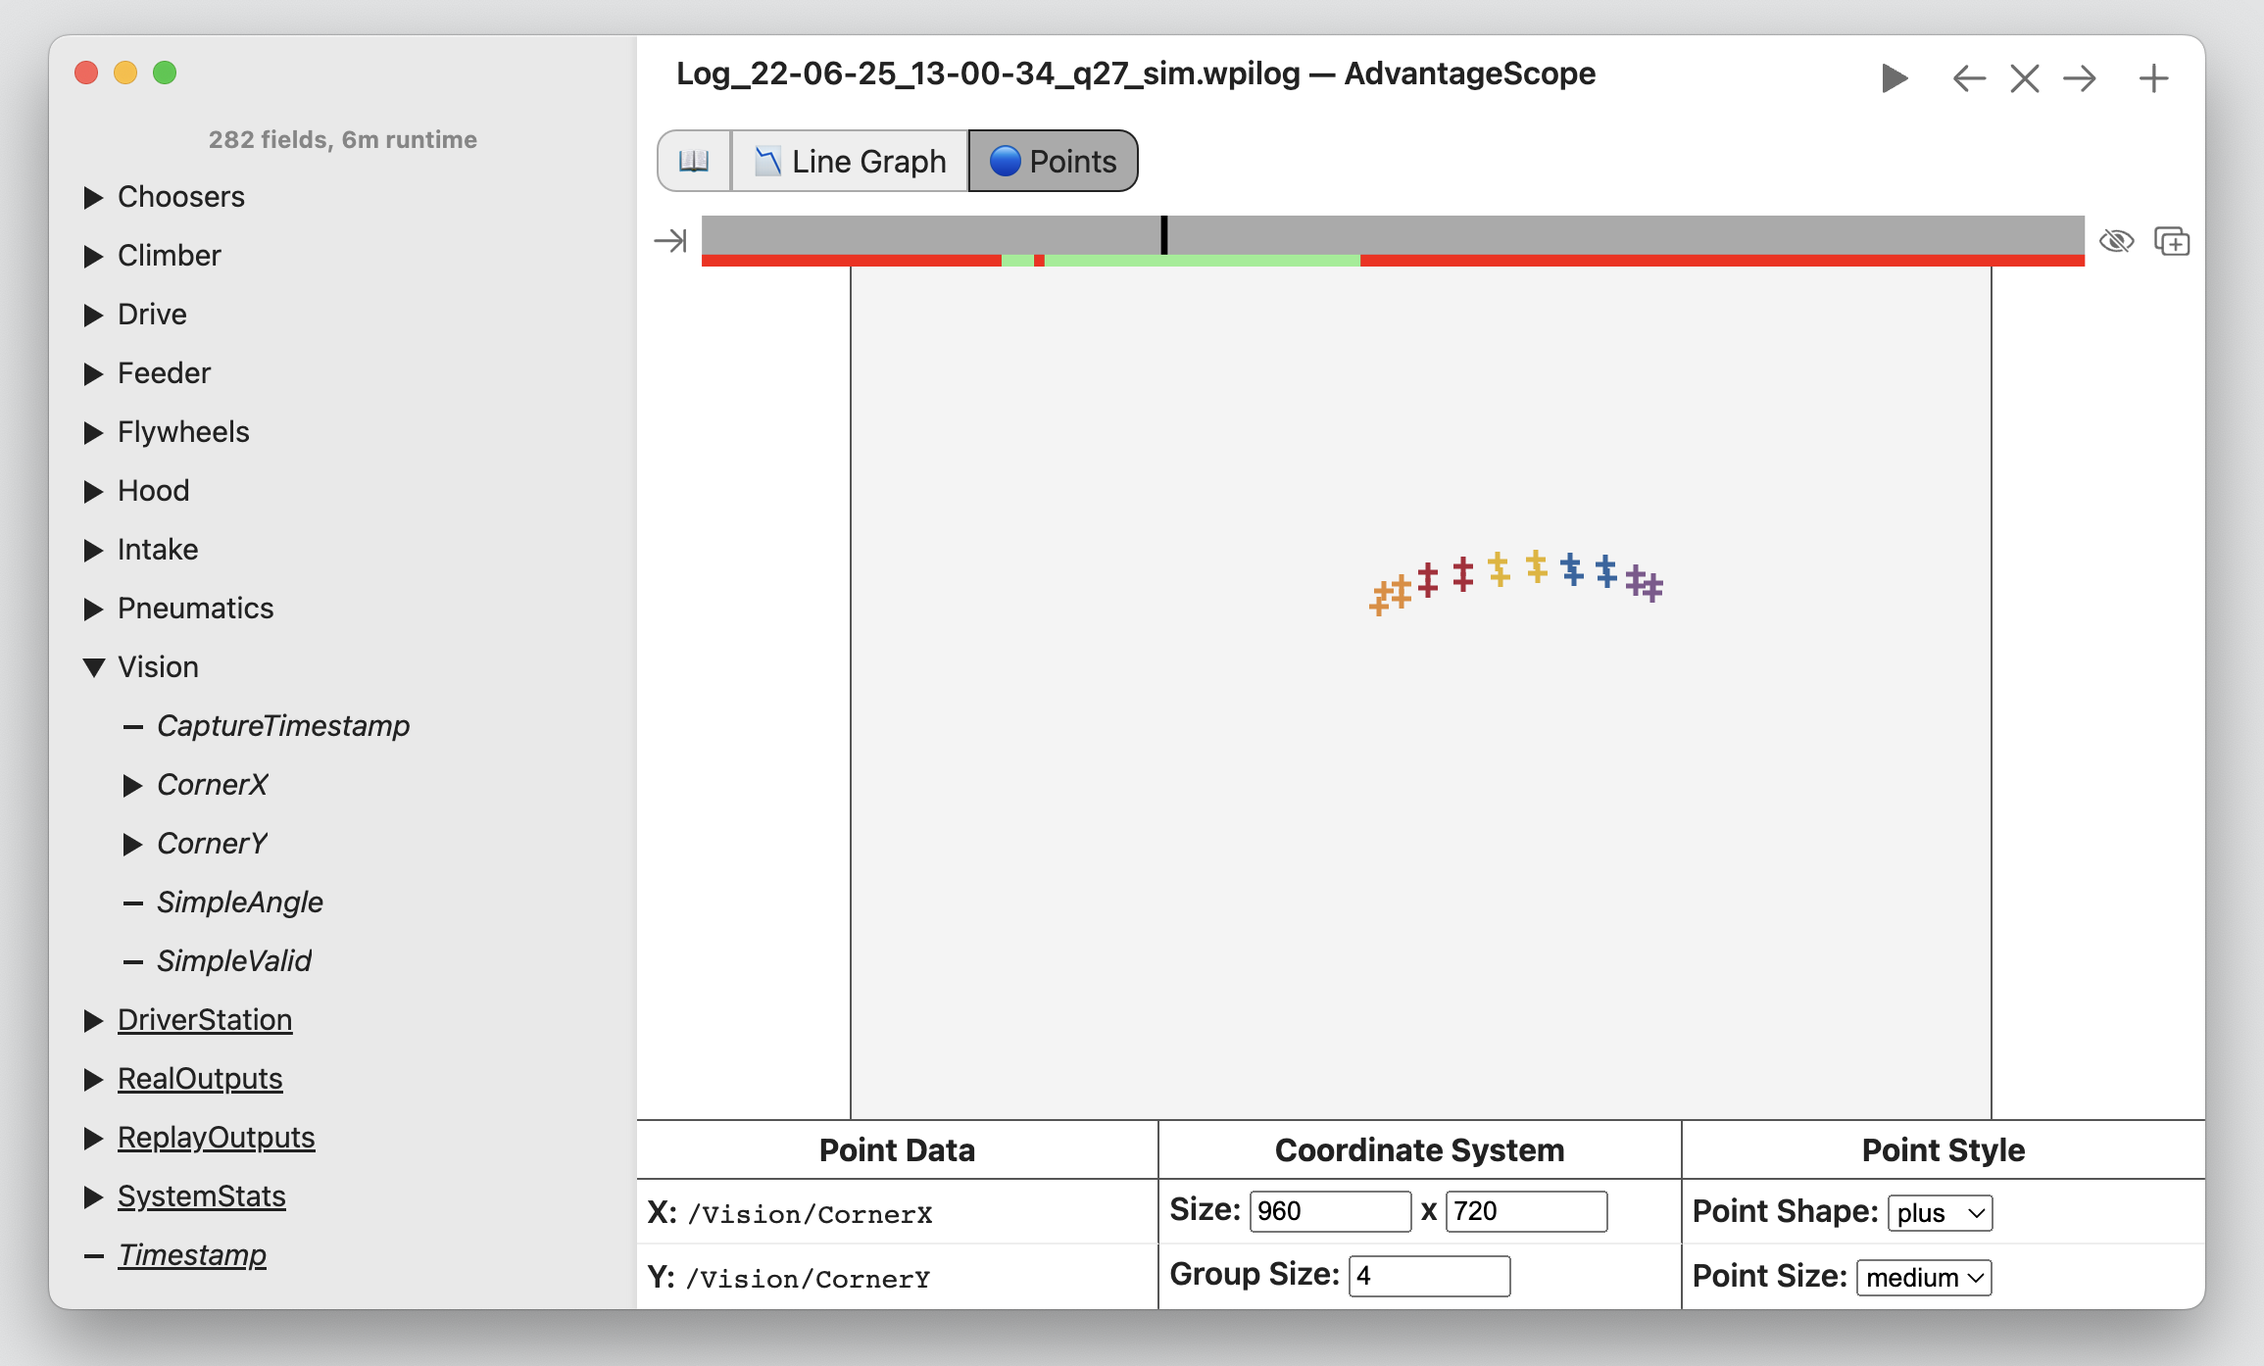
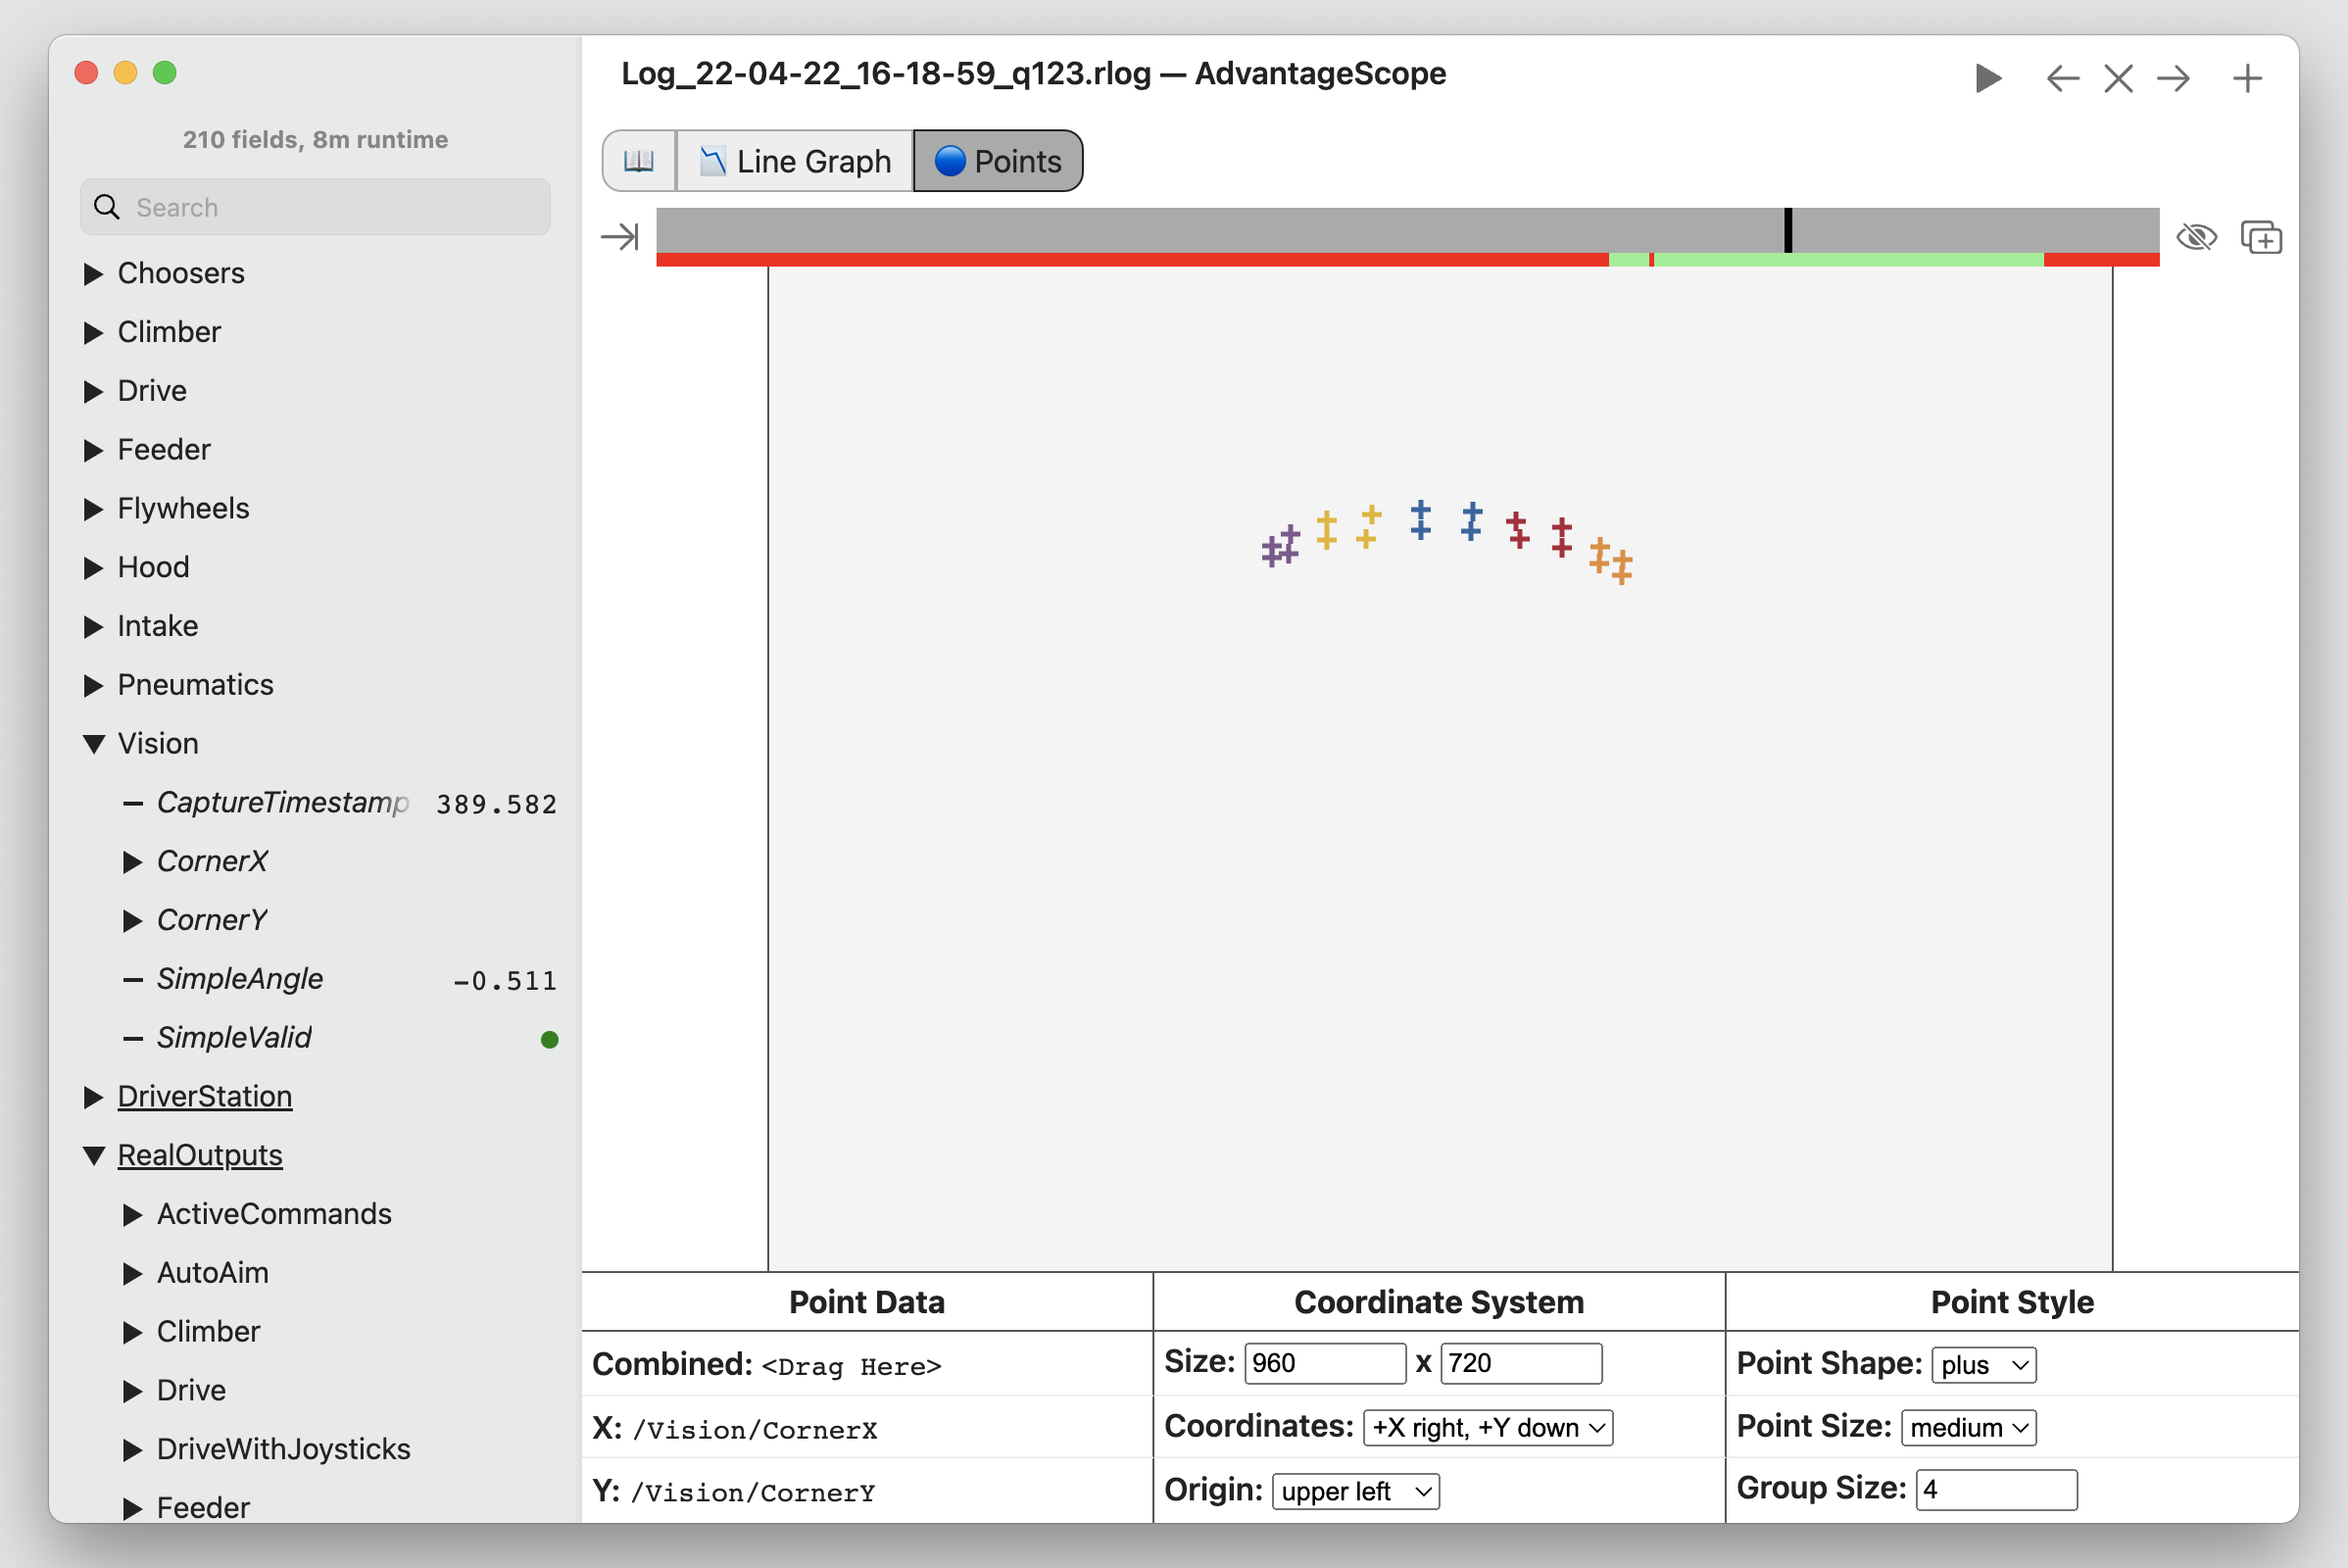
Add coordinate system options to points tab (#119)

diff --git a/src/hub/tabControllers/PointsController.ts b/src/hub/tabControllers/PointsController.ts
@@ -1,4 +1,5 @@
 import LoggableType from "../../shared/log/LoggableType";
+import { getOrDefault } from "../../shared/log/LogUtil";
 import TabType from "../../shared/TabType";
 import PointsVisualizer from "../../shared/visualizers/PointsVisualizer";
 import TimelineVizController from "./TimelineVizController";
@@ -6,9 +7,11 @@ import TimelineVizController from "./TimelineVizController";
 export default class PointsController extends TimelineVizController {
   private WIDTH: HTMLInputElement;
   private HEIGHT: HTMLInputElement;
-  private GROUP: HTMLInputElement;
+  private COORDINATES: HTMLInputElement;
+  private ORIGIN: HTMLInputElement;
   private POINT_SHAPE: HTMLInputElement;
   private POINT_SIZE: HTMLInputElement;
+  private GROUP_SIZE: HTMLInputElement;
 
   constructor(content: HTMLElement) {
     let configBody = content.getElementsByClassName("timeline-viz-config")[0].firstElementChild as HTMLElement;
@@ -16,15 +19,21 @@ export default class PointsController extends TimelineVizController {
       content,
       TabType.Points,
       [
-        // X
+        // Combined
         {
           element: configBody.children[1].firstElementChild as HTMLElement,
+          types: [LoggableType.NumberArray, "Translation2d[]"]
+        },
+
+        // X
+        {
+          element: configBody.children[2].firstElementChild as HTMLElement,
           types: [LoggableType.NumberArray]
         },
 
         // Y
         {
-          element: configBody.children[2].firstElementChild as HTMLElement,
+          element: configBody.children[3].firstElementChild as HTMLElement,
           types: [LoggableType.NumberArray]
         }
       ],
@@ -35,12 +44,14 @@ export default class PointsController extends TimelineVizController {
     // Get option inputs
     this.WIDTH = configBody.children[1].children[1].children[1] as HTMLInputElement;
     this.HEIGHT = configBody.children[1].children[1].children[3] as HTMLInputElement;
-    this.GROUP = configBody.children[2].children[1].children[1] as HTMLInputElement;
+    this.COORDINATES = configBody.children[2].children[1].children[1] as HTMLInputElement;
+    this.ORIGIN = configBody.children[3].children[1].children[1] as HTMLInputElement;
     this.POINT_SHAPE = configBody.children[1].children[2].children[1] as HTMLInputElement;
     this.POINT_SIZE = configBody.children[2].children[2].children[1] as HTMLInputElement;
+    this.GROUP_SIZE = configBody.children[3].children[2].children[1] as HTMLInputElement;
 
-    // Enforce range
-    [this.WIDTH, this.HEIGHT, this.GROUP].forEach((input, index) => {
+    // Enforce number ranges
+    [this.WIDTH, this.HEIGHT, this.GROUP_SIZE].forEach((input, index) => {
       input.addEventListener("change", () => {
         if (Number(input.value) % 1 !== 0) input.value = Math.round(Number(input.value)).toString();
         if (index === 2) {
@@ -56,18 +67,22 @@ export default class PointsController extends TimelineVizController {
     return {
       width: Number(this.WIDTH.value),
       height: Number(this.HEIGHT.value),
-      group: Number(this.GROUP.value),
+      coordinates: this.COORDINATES.value,
+      origin: this.ORIGIN.value,
       pointShape: this.POINT_SHAPE.value,
-      pointSize: this.POINT_SIZE.value
+      pointSize: this.POINT_SIZE.value,
+      groupSize: Number(this.GROUP_SIZE.value)
     };
   }
 
   set options(options: { [id: string]: any }) {
     this.WIDTH.value = options.width;
     this.HEIGHT.value = options.height;
-    this.GROUP.value = options.group;
+    this.COORDINATES.value = options.coordinates;
+    this.ORIGIN.value = options.origin;
     this.POINT_SHAPE.value = options.pointShape;
     this.POINT_SIZE.value = options.pointSize;
+    this.GROUP_SIZE.value = options.groupSize;
   }
 
   newAssets() {}
@@ -83,16 +98,51 @@ export default class PointsController extends TimelineVizController {
     let xData: number[] = [];
     let yData: number[] = [];
 
+    // Get combined data
     if (fields[0] !== null) {
-      let xDataTemp = window.log.getNumberArray(fields[0].key, time, time);
-      if (xDataTemp && xDataTemp.timestamps[0] <= time) {
-        xData = xDataTemp.values[0];
+      switch (fields[0].sourceType) {
+        case LoggableType.NumberArray:
+          const value = getOrDefault(window.log, fields[0].key, LoggableType.NumberArray, time, []);
+          if (value.length % 2 === 0) {
+            for (let i = 0; i < value.length; i += 2) {
+              xData.push(value[i]);
+              yData.push(value[i + 1]);
+            }
+          }
+          break;
+        case "Translation2d[]":
+          let length = getOrDefault(window.log, fields[0].key + "/length", LoggableType.Number, time, 0);
+          for (let i = 0; i < length; i++) {
+            const x = getOrDefault(
+              window.log,
+              fields[0].key + "/" + i.toString() + "/x",
+              LoggableType.Number,
+              time,
+              null
+            );
+            const y = getOrDefault(
+              window.log,
+              fields[0].key + "/" + i.toString() + "/y",
+              LoggableType.Number,
+              time,
+              null
+            );
+            if (x !== null && y !== null) {
+              xData.push(x);
+              yData.push(y);
+            }
+          }
+          break;
       }
     }
-    if (fields[1] !== null) {
-      let yDataTemp = window.log.getNumberArray(fields[1].key, time, time);
-      if (yDataTemp && yDataTemp.timestamps[0] <= time) {
-        yData = yDataTemp.values[0];
+
+    // Get component data
+    if (fields[1] !== null && fields[2] !== null) {
+      const xValue = getOrDefault(window.log, fields[1].key, LoggableType.NumberArray, time, []);
+      const yValue = getOrDefault(window.log, fields[2].key, LoggableType.NumberArray, time, []);
+      if (xValue.length === yValue.length) {
+        xData = xData.concat(xValue);
+        yData = yData.concat(yValue);
       }
     }
 

diff --git a/www/hub.html b/www/hub.html
@@ -689,7 +689,7 @@
                 </tr>
                 <tr>
                   <td>
-                    <span class="label">X:</span>
+                    <span class="label">Combined:</span>
                     <span class="field-name">&lt;Drag Here&gt;</span>
                   </td>
                   <td>
@@ -709,12 +709,16 @@
                 </tr>
                 <tr>
                   <td>
-                    <span class="label">Y:</span>
+                    <span class="label">X:</span>
                     <span class="field-name">&lt;Drag Here&gt;</span>
                   </td>
                   <td>
-                    <span class="label">Group Size:</span>
-                    <input type="number" min="0" value="0" step="1" />
+                    <span class="label">Coordinates:</span>
+                    <select tabindex="-1">
+                      <option value="xr,yd">+X right, +Y down</option>
+                      <option value="xr,yu">+X right, +Y up</option>
+                      <option value="xu,yl">+X up, +Y left</option>
+                    </select>
                   </td>
                   <td>
                     <span class="label">Point Size:</span>
@@ -723,6 +727,26 @@
                       <option selected>medium</option>
                       <option>small</option>
                     </select>
+                  </td>
+                </tr>
+                <tr>
+                  <td>
+                    <span class="label">Y:</span>
+                    <span class="field-name">&lt;Drag Here&gt;</span>
+                  </td>
+                  <td>
+                    <span class="label">Origin:</span>
+                    <select tabindex="-1">
+                      <option value="ul">upper left</option>
+                      <option value="ur">upper right</option>
+                      <option value="ll">lower left</option>
+                      <option value="lr">lower right</option>
+                      <option value="c">center</option>
+                    </select>
+                  </td>
+                  <td>
+                    <span class="label">Group Size:</span>
+                    <input type="number" min="0" value="0" step="1" />
                   </td>
                 </tr>
               </tbody>

diff --git a/src/shared/visualizers/PointsVisualizer.ts b/src/shared/visualizers/PointsVisualizer.ts
@@ -42,6 +42,34 @@ export default class PointsVisualizer implements Visualizer {
     for (let i = 0; i < Math.min(command.data.x.length, command.data.y.length); i++) {
       let position = [command.data.x[i], command.data.y[i]];
       let dimensions = [command.options.width, command.options.height];
+      switch (command.options.coordinates) {
+        case "xr,yd":
+          // Default, no changes
+          break;
+        case "xr,yu":
+          position = [position[0], -position[1]];
+          break;
+        case "xu,yl":
+          position = [-position[1], -position[0]];
+          break;
+      }
+      switch (command.options.origin) {
+        case "ul":
+          // Default, no changes
+          break;
+        case "ur":
+          position = [position[0] + dimensions[0], position[1]];
+          break;
+        case "ll":
+          position = [position[0], position[1] + dimensions[1]];
+          break;
+        case "lr":
+          position = [position[0] + dimensions[0], position[1] + dimensions[1]];
+          break;
+        case "c":
+          position = [position[0] + dimensions[0] / 2, position[1] + dimensions[1] / 2];
+          break;
+      }
       if (position[0] < 0 || position[0] > dimensions[0] || position[1] < 0 || position[1] > dimensions[1]) {
         continue;
       }
@@ -76,10 +104,10 @@ export default class PointsVisualizer implements Visualizer {
 
       // Set color
       let color = "";
-      if (command.options.group < 1) {
+      if (command.options.groupSize < 1) {
         color = window.matchMedia("(prefers-color-scheme: dark)").matches ? "white" : "black";
       } else {
-        color = AllColors[Math.floor(i / command.options.group) % AllColors.length];
+        color = AllColors[Math.floor(i / command.options.groupSize) % AllColors.length];
       }
       point.style.fill = color;
       point.style.stroke = color;

diff --git a/docs/tabs/POINTS.md b/docs/tabs/POINTS.md
@@ -2,23 +2,63 @@
 
 _[< Return to homepage](/docs/INDEX.md)_
 
-The points tab shows a 2D visualization of arbitrary points. This is a very flexible tool, allowing for custom visualizations of vision data/pipelines, mechanism states, etc. Several examples are shown below. The timeline shows when the robot is enabled and can be used to navigate through the log data.
+The points tab shows a 2D visualization of arbitrary points. This is a very flexible tool, allowing for custom visualizations of vision data/pipelines, mechanism states, etc. The timeline shows when the robot is enabled and can be used to navigate through the log data.
 
 > Note: To view the point visualization alongside other tabs, click the "Add Window" icon just below the navigation/playback controls. To hide the controls at the bottom of the window, click the eye icon.
 
-![Point tab example #1](/docs/resources/points/points-1.png)
-
-![Point tab example #2](/docs/resources/points/points-2.png)
+![Point tab example](/docs/resources/points/points-1.png)
 
 ## Point Data
 
-To selected a field, drag it to one of the labeled boxes. To remove a field, right-click the box. The X and Y fields should be numeric arrays of the same length. **The origin is in the upper left corner, with +X to the right and +Y down.**
+Three formats for point data are supported:
+
+- **Recommended:** An array of struct-encoded `Translation2d` objects. Drag the field to the "Combined" box to visualize it.
+- A single numeric array containing X and Y values, following the format `[x_1, y_1, x_2, y_2, ...]`. Drag the field to the "Combined" box to visualize it.
+- Two numeric arrays of the same length containing X and Y values separately. Drag the fields to the "X" and "Y" boxes to visualize them.
+
+The example code below shows how to log an array of `Translation2d` objects using WPILib or AdvantageKit.
+
+```java
+Translation2d[] translations = new Translation2d[] {
+    new Translation2d(0.0, 1.0),
+    new Translation2d(2.0, 3.0),
+    new Translation2d(4.0, 5.0)
+};
+
+// WPILib
+StructArrayPublisher<Translation2d> publisher = NetworkTableInstance.getDefault()
+    .getStructArrayTopic("MyTranslations", Translation2d.struct).publish();
+
+periodic() {
+    publisher.set(new Translation2d[] {
+        new Translation2d(0.0, 1.0),
+        new Translation2d(2.0, 3.0)
+    });
+    publisher.set(
+        new Translation2d(0.0, 1.0),
+        new Translation2d(2.0, 3.0)
+    );
+}
+
+// AdvantageKit
+Logger.recordOutput("MyTranslations",
+    new Translation2d[] {
+        new Translation2d(0.0, 1.0),
+        new Translation2d(2.0, 3.0)
+    });
+Logger.recordOutput("MyTranslations",
+    new Translation2d(0.0, 1.0),
+    new Translation2d(2.0, 3.0)
+);
+```
 
 ## Configuration
 
 The following configuration options are available:
 
-- **Size:** The dimensions of the display area. When displaying vision data, this is the resolution of the camera.
-- **Group Size:** The number of points in each color coded group (for example, a group size of four could be used for vision corner data). Setting a group size of zero will disable color coding.
+- **Size:** The dimensions of the display area. This can use any units that match the published points. When displaying vision data, this is the resolution of the camera.
+- **Coordinates:** The coordinate system to use (orientation of X and Y axes).
+- **Origin:** The position of the origin in the coordinate system.
 - **Point Shape:** The shape of each rendered point (plus, cross, or circle).
 - **Point Size:** The size of each rendered point (large, medium, or small).
+- **Group Size:** The number of points in each color coded group (for example, a group size of four could be used for vision corner data). Setting a group size of zero will disable color coding.
